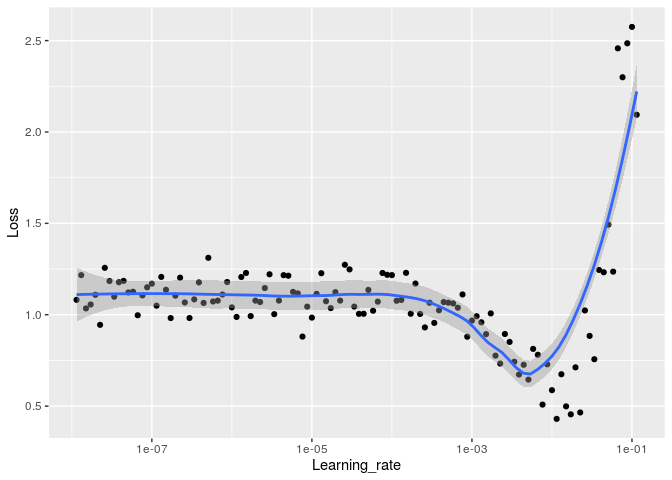
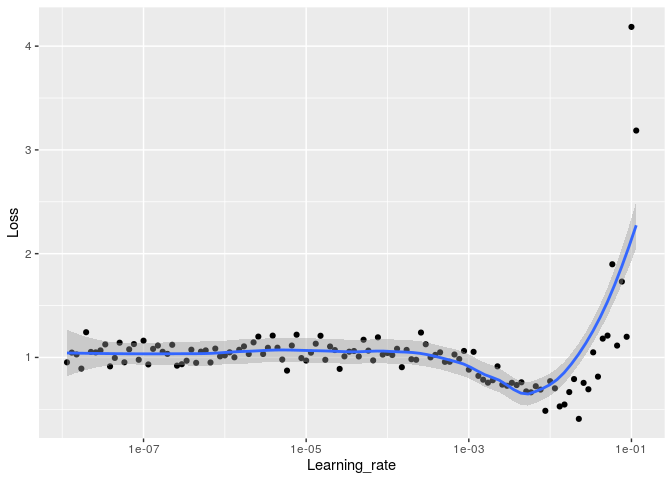
Save several models during during training, in a more explicit way. Removal o the ugly writting added by the conflict of the branch of github. Git ignore for the new models files created.

diff --git a/resnet50-lr-finder-and-cyclic-lr-with-r.md b/resnet50-lr-finder-and-cyclic-lr-with-r.md
@@ -287,13 +287,8 @@ str(batch)
 ```
 
     ## List of 2
-<<<<<<< HEAD
-    ##  $ : num [1:32, 1:224, 1:224, 1:3] 91.6 166.8 78 66.3 183 ...
-    ##  $ : num [1:32, 1:4] 0 1 0 1 1 0 1 1 0 0 ...
-=======
-    ##  $ : num [1:32, 1:224, 1:224, 1:3] 129.4 141.6 254 94.8 70.4 ...
-    ##  $ : num [1:32, 1:4] 1 1 0 0 0 1 0 0 1 0 ...
->>>>>>> 0e95cb93c660531961cd85d6c13395e023450ffc
+    ##  $ : num [1:32, 1:224, 1:224, 1:3] 137 94.9 79 68.6 151.9 ...
+    ##  $ : num [1:32, 1:4] 0 0 0 0 1 1 0 1 0 0 ...
 
 # Import pre-trained model
 
@@ -475,21 +470,12 @@ head(data)
 ```
 
     ##   Learning_rate      Loss
-<<<<<<< HEAD
-    ## 1  1.145048e-08 1.0814290
-    ## 2  1.311134e-08 1.2165661
-    ## 3  1.501311e-08 1.0346155
-    ## 4  1.719072e-08 1.0561068
-    ## 5  1.968419e-08 1.1090004
-    ## 6  2.253934e-08 0.9447393
-=======
-    ## 1  1.145048e-08 1.1035540
-    ## 2  1.311134e-08 1.0811859
-    ## 3  1.501311e-08 0.8902329
-    ## 4  1.719072e-08 0.9373264
-    ## 5  1.968419e-08 1.0631230
-    ## 6  2.253934e-08 0.9979775
->>>>>>> 0e95cb93c660531961cd85d6c13395e023450ffc
+    ## 1  1.145048e-08 0.9529219
+    ## 2  1.311134e-08 1.0468488
+    ## 3  1.501311e-08 1.0288451
+    ## 4  1.719072e-08 0.8923152
+    ## 5  1.968419e-08 1.2429831
+    ## 6  2.253934e-08 1.0531113
 
 Learning rate vs loss
 :
@@ -660,34 +646,43 @@ model <- keras_model_sequential() %>%
         layer_dense(units=4, activation="sigmoid")
 ```
 
-<<<<<<< HEAD
-=======
-#### Better metric
+#### Saving all models
 
-Addition of the metric categorical\_accuracy to be sure of the accuracy
-plotted.
-
->>>>>>> 0e95cb93c660531961cd85d6c13395e023450ffc
 ``` r
 model %>% compile(
     optimizer=optimizer_rmsprop(lr=1e-5),
     loss="binary_crossentropy",
-<<<<<<< HEAD
-=======
-    #metrics = c("categorical_accuracy")
->>>>>>> 0e95cb93c660531961cd85d6c13395e023450ffc
     metrics = "accuracy"
 )
 ```
 
+The following code [came from the tutorial of Keras here,
+“tutorial\_save\_and\_restore”](https://keras.rstudio.com/articles/tutorial_save_and_restore.html).
+
 ``` r
-callback_list<-list(callback_lr, #callback to update lr
-    callback_model_checkpoint(filepath = "raw_model.h5", monitor = "val_acc", save_best_only = TRUE))
+checkpoint_dir <- "checkpoints"
+unlink(checkpoint_dir, recursive = TRUE)
+dir.create(checkpoint_dir)
+filepath <- file.path(checkpoint_dir, "weights.{epoch:02d}-{val_loss:.2f}.hdf5")
 ```
 
-    ## Warning in callback_model_checkpoint(filepath = "raw_model.h5", monitor =
-    ## "val_acc", : The save_freq argument is only used by TensorFlow >= 1.14. Update
+``` r
+check_point_callback <- callback_model_checkpoint(
+  filepath = filepath,
+  save_weights_only = TRUE,
+  save_best_only = TRUE,
+  verbose = 1
+)
+```
+
+    ## Warning in callback_model_checkpoint(filepath = filepath, save_weights_only
+    ## = TRUE, : The save_freq argument is only used by TensorFlow >= 1.14. Update
     ## TensorFlow or use save_freq = NULL
+
+``` r
+callback_list<-list(callback_lr, #callback to update lr
+                    check_point_callback) #callback to save model
+```
 
 ``` r
 history <- model %>% fit_generator(
@@ -712,7 +707,11 @@ Load best model :
 
 ``` r
 #model<-load_model_hdf5("raw_model.h5")
+list.files(checkpoint_dir)
 ```
+
+    ## [1] "weights.01-0.72.hdf5" "weights.02-0.58.hdf5" "weights.03-0.56.hdf5"
+    ## [4] "weights.04-0.52.hdf5" "weights.06-0.52.hdf5"
 
 ### About the learning rate
 
@@ -767,7 +766,7 @@ summary(model)
     ## Non-trainable params: 8,615,808
     ## ________________________________________________________________________________
 
-#### Learning rate finder for unfreezed model
+### Learning rate finder for unfreezed model
 
 ``` r
 callback_list = list(callback_lr, callback_logger, callback_log_acc_lr)
@@ -812,21 +811,12 @@ head(data)
 ```
 
     ##   Learning_rate      Loss
-<<<<<<< HEAD
-    ## 1  1.145048e-08 1.0814290
-    ## 2  1.311134e-08 1.2165661
-    ## 3  1.501311e-08 1.0346155
-    ## 4  1.719072e-08 1.0561068
-    ## 5  1.968419e-08 1.1090004
-    ## 6  2.253934e-08 0.9447393
-=======
-    ## 1  1.145048e-08 1.1035540
-    ## 2  1.311134e-08 1.0811859
-    ## 3  1.501311e-08 0.8902329
-    ## 4  1.719072e-08 0.9373264
-    ## 5  1.968419e-08 1.0631230
-    ## 6  2.253934e-08 0.9979775
->>>>>>> 0e95cb93c660531961cd85d6c13395e023450ffc
+    ## 1  1.145048e-08 0.9529219
+    ## 2  1.311134e-08 1.0468488
+    ## 3  1.501311e-08 1.0288451
+    ## 4  1.719072e-08 0.8923152
+    ## 5  1.968419e-08 1.2429831
+    ## 6  2.253934e-08 1.0531113
 
 Learning rate vs loss
 :
@@ -837,10 +827,9 @@ ggplot(data, aes(x=Learning_rate, y=Loss)) + scale_x_log10() + geom_point() +  g
 
     ## `geom_smooth()` using method = 'loess' and formula 'y ~ x'
 
-![](resnet50-lr-finder-and-cyclic-lr-with-r_files/figure-gfm/unnamed-chunk-61-1.png)<!-- -->
+![](resnet50-lr-finder-and-cyclic-lr-with-r_files/figure-gfm/unnamed-chunk-63-1.png)<!-- -->
 
-<<<<<<< HEAD
-#### Fine tuning of the model
+### Training
 
 ``` r
 n=40
@@ -865,7 +854,7 @@ l_rate <- rep(c(l_rate_cyclical, l_rate_cosine_annealing), nb_epochs/2)
 plot(l_rate, type="b", pch=16, xlab="iteration", cex=0.2, ylab="learning rate", col="grey50")
 ```
 
-![](resnet50-lr-finder-and-cyclic-lr-with-r_files/figure-gfm/unnamed-chunk-64-1.png)<!-- -->
+![](resnet50-lr-finder-and-cyclic-lr-with-r_files/figure-gfm/unnamed-chunk-66-1.png)<!-- -->
 
 ``` r
 model %>% compile(
@@ -902,25 +891,6 @@ plot(history)
     ## `geom_smooth()` using formula 'y ~ x'
 
 ![](resnet50-lr-finder-and-cyclic-lr-with-r_files/figure-gfm/plot_perforance_fine_tuned-1.png)<!-- -->
-=======
-More centered on the moment when the slope goes down :
-
-``` r
-limits<-quantile(data$Loss, probs = c(0.10, 0.90))
-ggplot(data, aes(x=Learning_rate, y=Loss)) + scale_x_log10() + 
-scale_y_continuous(name="Loss", limits=limits)+ geom_point() +  geom_smooth(span = 0.5)
-```
-
-    ## `geom_smooth()` using method = 'loess' and formula 'y ~ x'
-
-    ## Warning: Removed 48 rows containing non-finite values (stat_smooth).
-
-    ## Warning: Removed 48 rows containing missing values (geom_point).
-
-![](resnet50-lr-finder-and-cyclic-lr-with-r_files/figure-gfm/unnamed-chunk-62-1.png)<!-- -->
-
-#### Fine tuning of the model
->>>>>>> 0e95cb93c660531961cd85d6c13395e023450ffc
 
 # Submit
 
